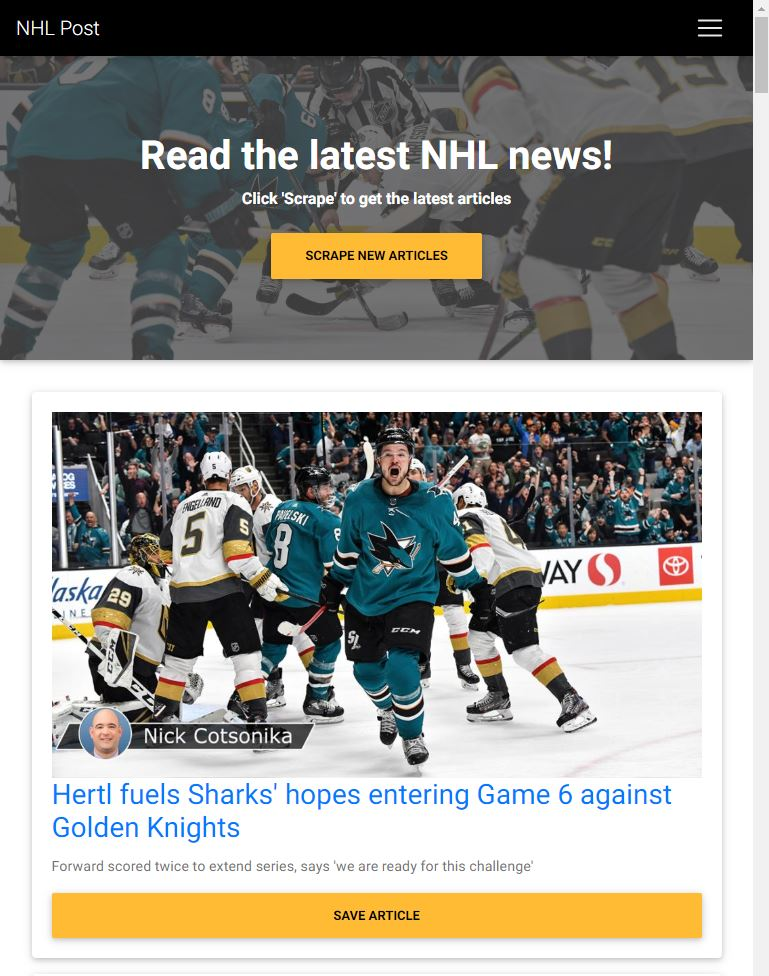
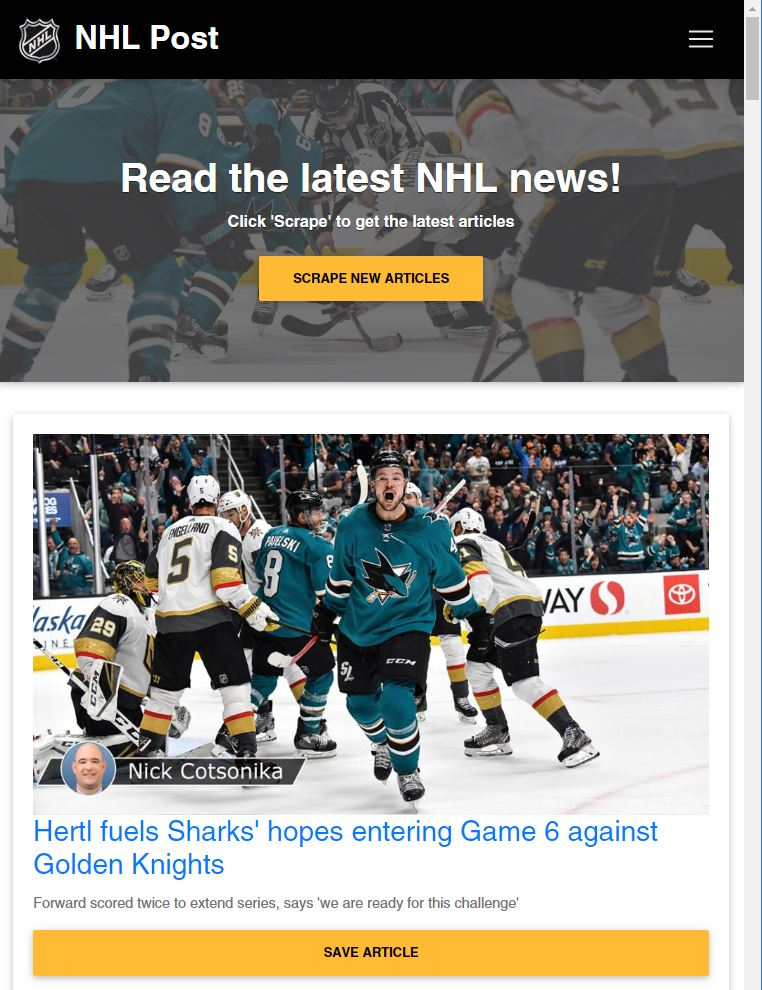
more styling

diff --git a/public/css/style.css b/public/css/style.css
@@ -1,3 +1,7 @@
+body{
+    font-family: Helvetica, sans-serif
+}
+
 .cardz{
     display:inline-block;
     margin:0px auto;
@@ -72,6 +76,7 @@
 h1, .inside p{
   font-weight:bold;
   color:#fff;
+  text-shadow: 0px 1px 1px rgba(0, 0, 0, .6);
 }
 
 .btn-warning{
@@ -94,6 +99,24 @@ h1, .inside p{
     width:100%;
 }
 
+h1{
+    color:#fff;
+    text-shadow: 0px 1px 1px rgba(0, 0, 0, .6);
+}
 
 
+.navbar-brand{
+font-size:2em;
+font-weight:bold;
+}
 
+.nav-link{
+    font-size:1.3em;
+    }
+
+@media (max-width:992px) {
+
+	#articles{
+		max-width:100%;
+	}
+}
